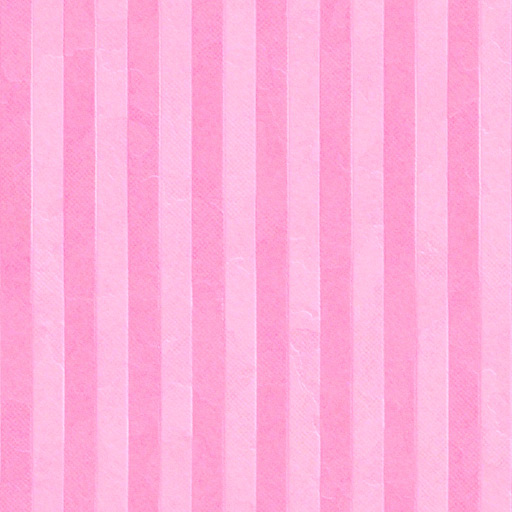
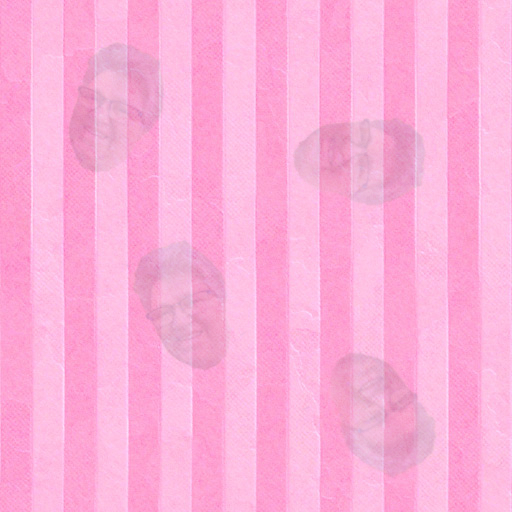
Grote kleine update?

diff --git a/loc/NL.js b/loc/NL.js
@@ -885,16 +885,16 @@ AddLanguage('NL','dutch',{
 	"[Farm quote]Grows cookie plants from cookie seeds.": "Laat katoenplukkers voor je werken.",
 	"[Farm business name]Kitchen": "Negerjonk",
 	"[Farm business quote]The more kitchens, the more cookies your employees can produce.": "Hoe meer negers, hoe meer koekjes je slaafjes kunnen bakken.",
-	"Mine": "Slaaf",
-	"mine": "Slaaf",
-	"mines": "Slaven",
+	"Mine": "Kind Uit Oekraïne",
+	"mine": "Kind Uit Oekraïne",
+	"mines": "Kind Uit Oekraïne",
 	"%1 mine": [
-		"%1 Slaaf",
-		"%1 Slaven"
+		"%1 Kind Uit Oekraïne",
+		"%1 Kind Uit Oekraïne"
 	],
-	"[Mine quote]Mines out cookie dough and chocolate chips.": "Verkracht kinderen voor koeken.",
+	"[Mine quote]Mines out cookie dough and chocolate chips.": "KABOEM!!!!!!",
 	"[Mine business name]Secret recipe": "Geheim recept",
-	"[Mine business quote]These give you the edge you need to outsell those pesky competitors.": "Dat heb je nodig om meer te kunnen verkopen dan je concurrenten.",
+	"[Mine business quote]These give you the edge you need to outsell those pesky competitors.": "Dat heb je nodig om meer te kunnen vermoorden dan je concurrenten.",
 	"Factory": "Rogier Eradus",
 	"factory": "Rogier Eradus",
 	"factories": "Rogier Eradus",

diff --git a/main.js b/main.js
@@ -1357,11 +1357,12 @@ Game.Launch=function()
 	'<div class="title">??/03/2025 - De Betere tinekesieders.nl Update</div>'+
 	'<div class="listing">&bull; Op dezelfde versie zoals cookieclicker zelf.</div>'+
 	'<div class="listing">&bull; Nieuwe plaatjes aan de zijkant en in het midden.</div>'+
-	'<div class="listing">&bull; Elke achtergrond heeft haar hoofd.</div>'+
+	'<div class="listing">&bull; Bijna elk achtergrond heeft haar hoofd.</div>'+
 	'<div class="listing">&bull; saysopensesame werkt niet meer 😛</div>'+
 	'<div class="listing">&bull; Golden cookie is haar hoofd in de vorm van een kipnugget, Dat was perongeluk.</div>'+
 	'<div class="listing">&bull; Rechtsboven in moet je de taal wel veranderen naar "Kies deze!!!" voor alle namen.</div>'+
-	'<div class="listing">&bull; Nieuwe namen voor je cookie factory, Een paar gekke ook.." voor alle namen.</div>'+
+	'<div class="listing">&bull; ROGIER ERADUS DE SNACKBAR MAN ZIT ER IN!!!!</div>'+
+	'<div class="listing">&bull; Oh ja ook een dildo + Easytoys..</div>'+
 	'<div class="listing">&bull; Heb je nog ideeën? Stuur het naar tsiederswebsite@gmail.com</div>'+
 	
 	'</div><div class="subsection update">'+
